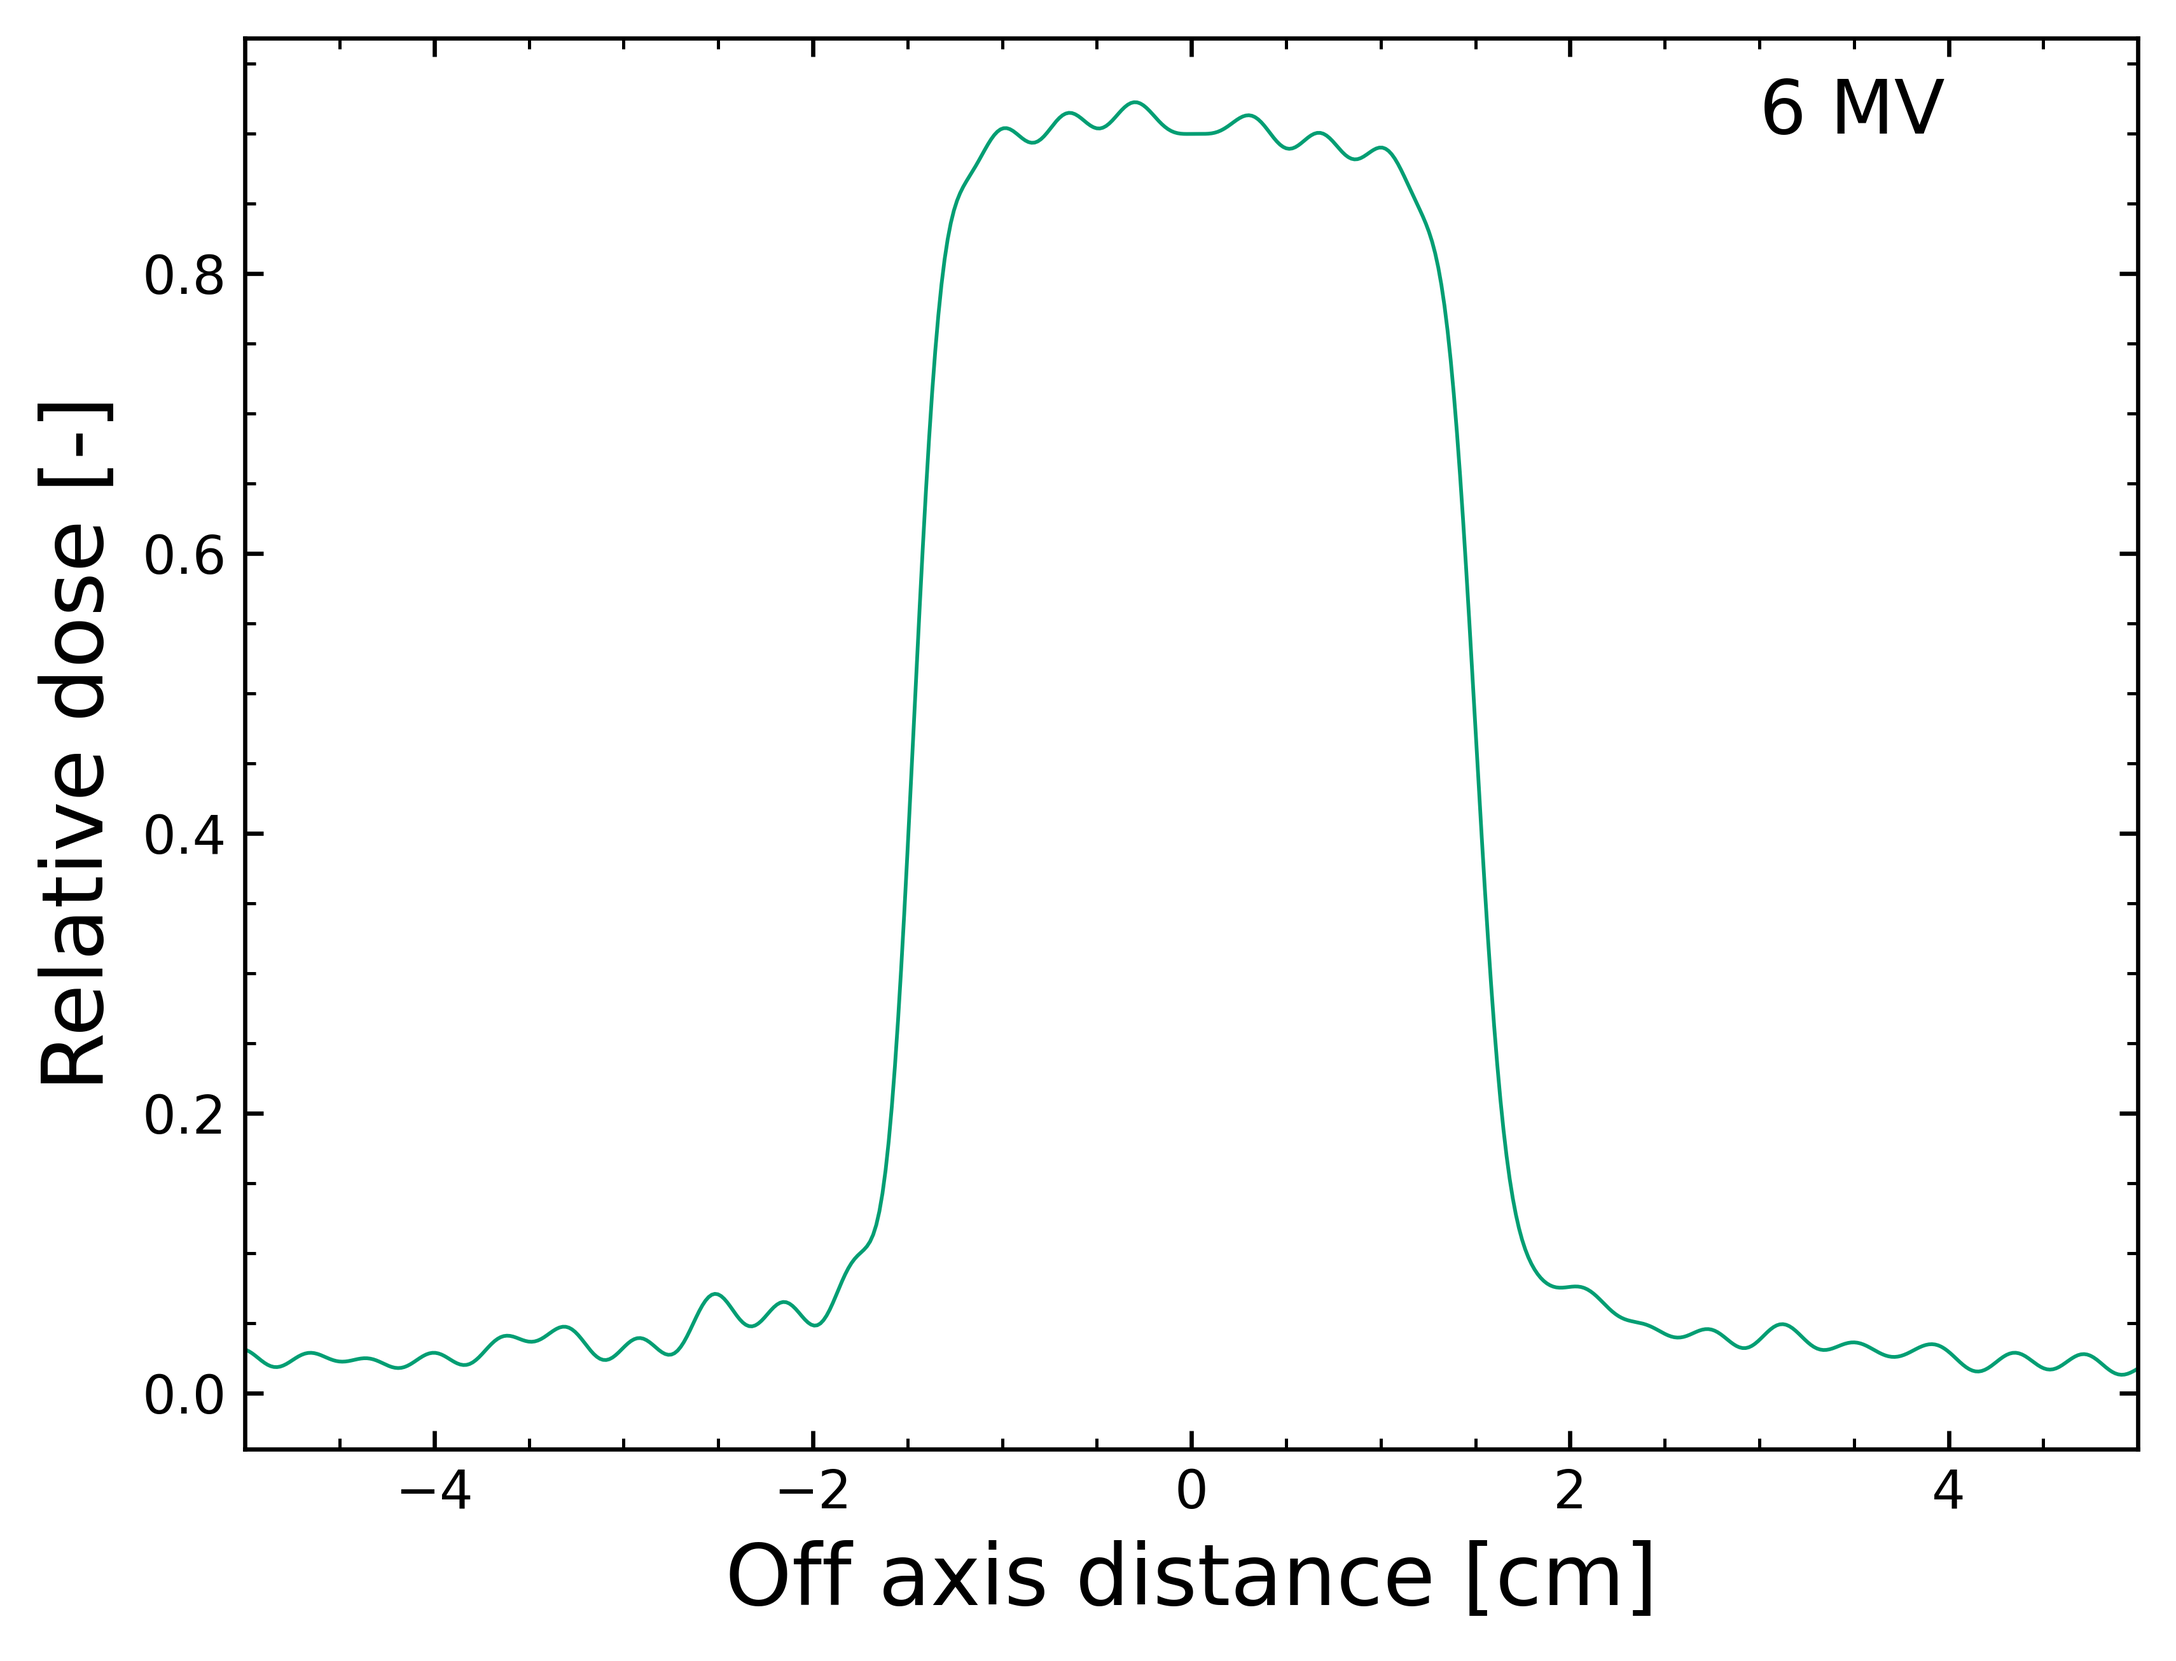
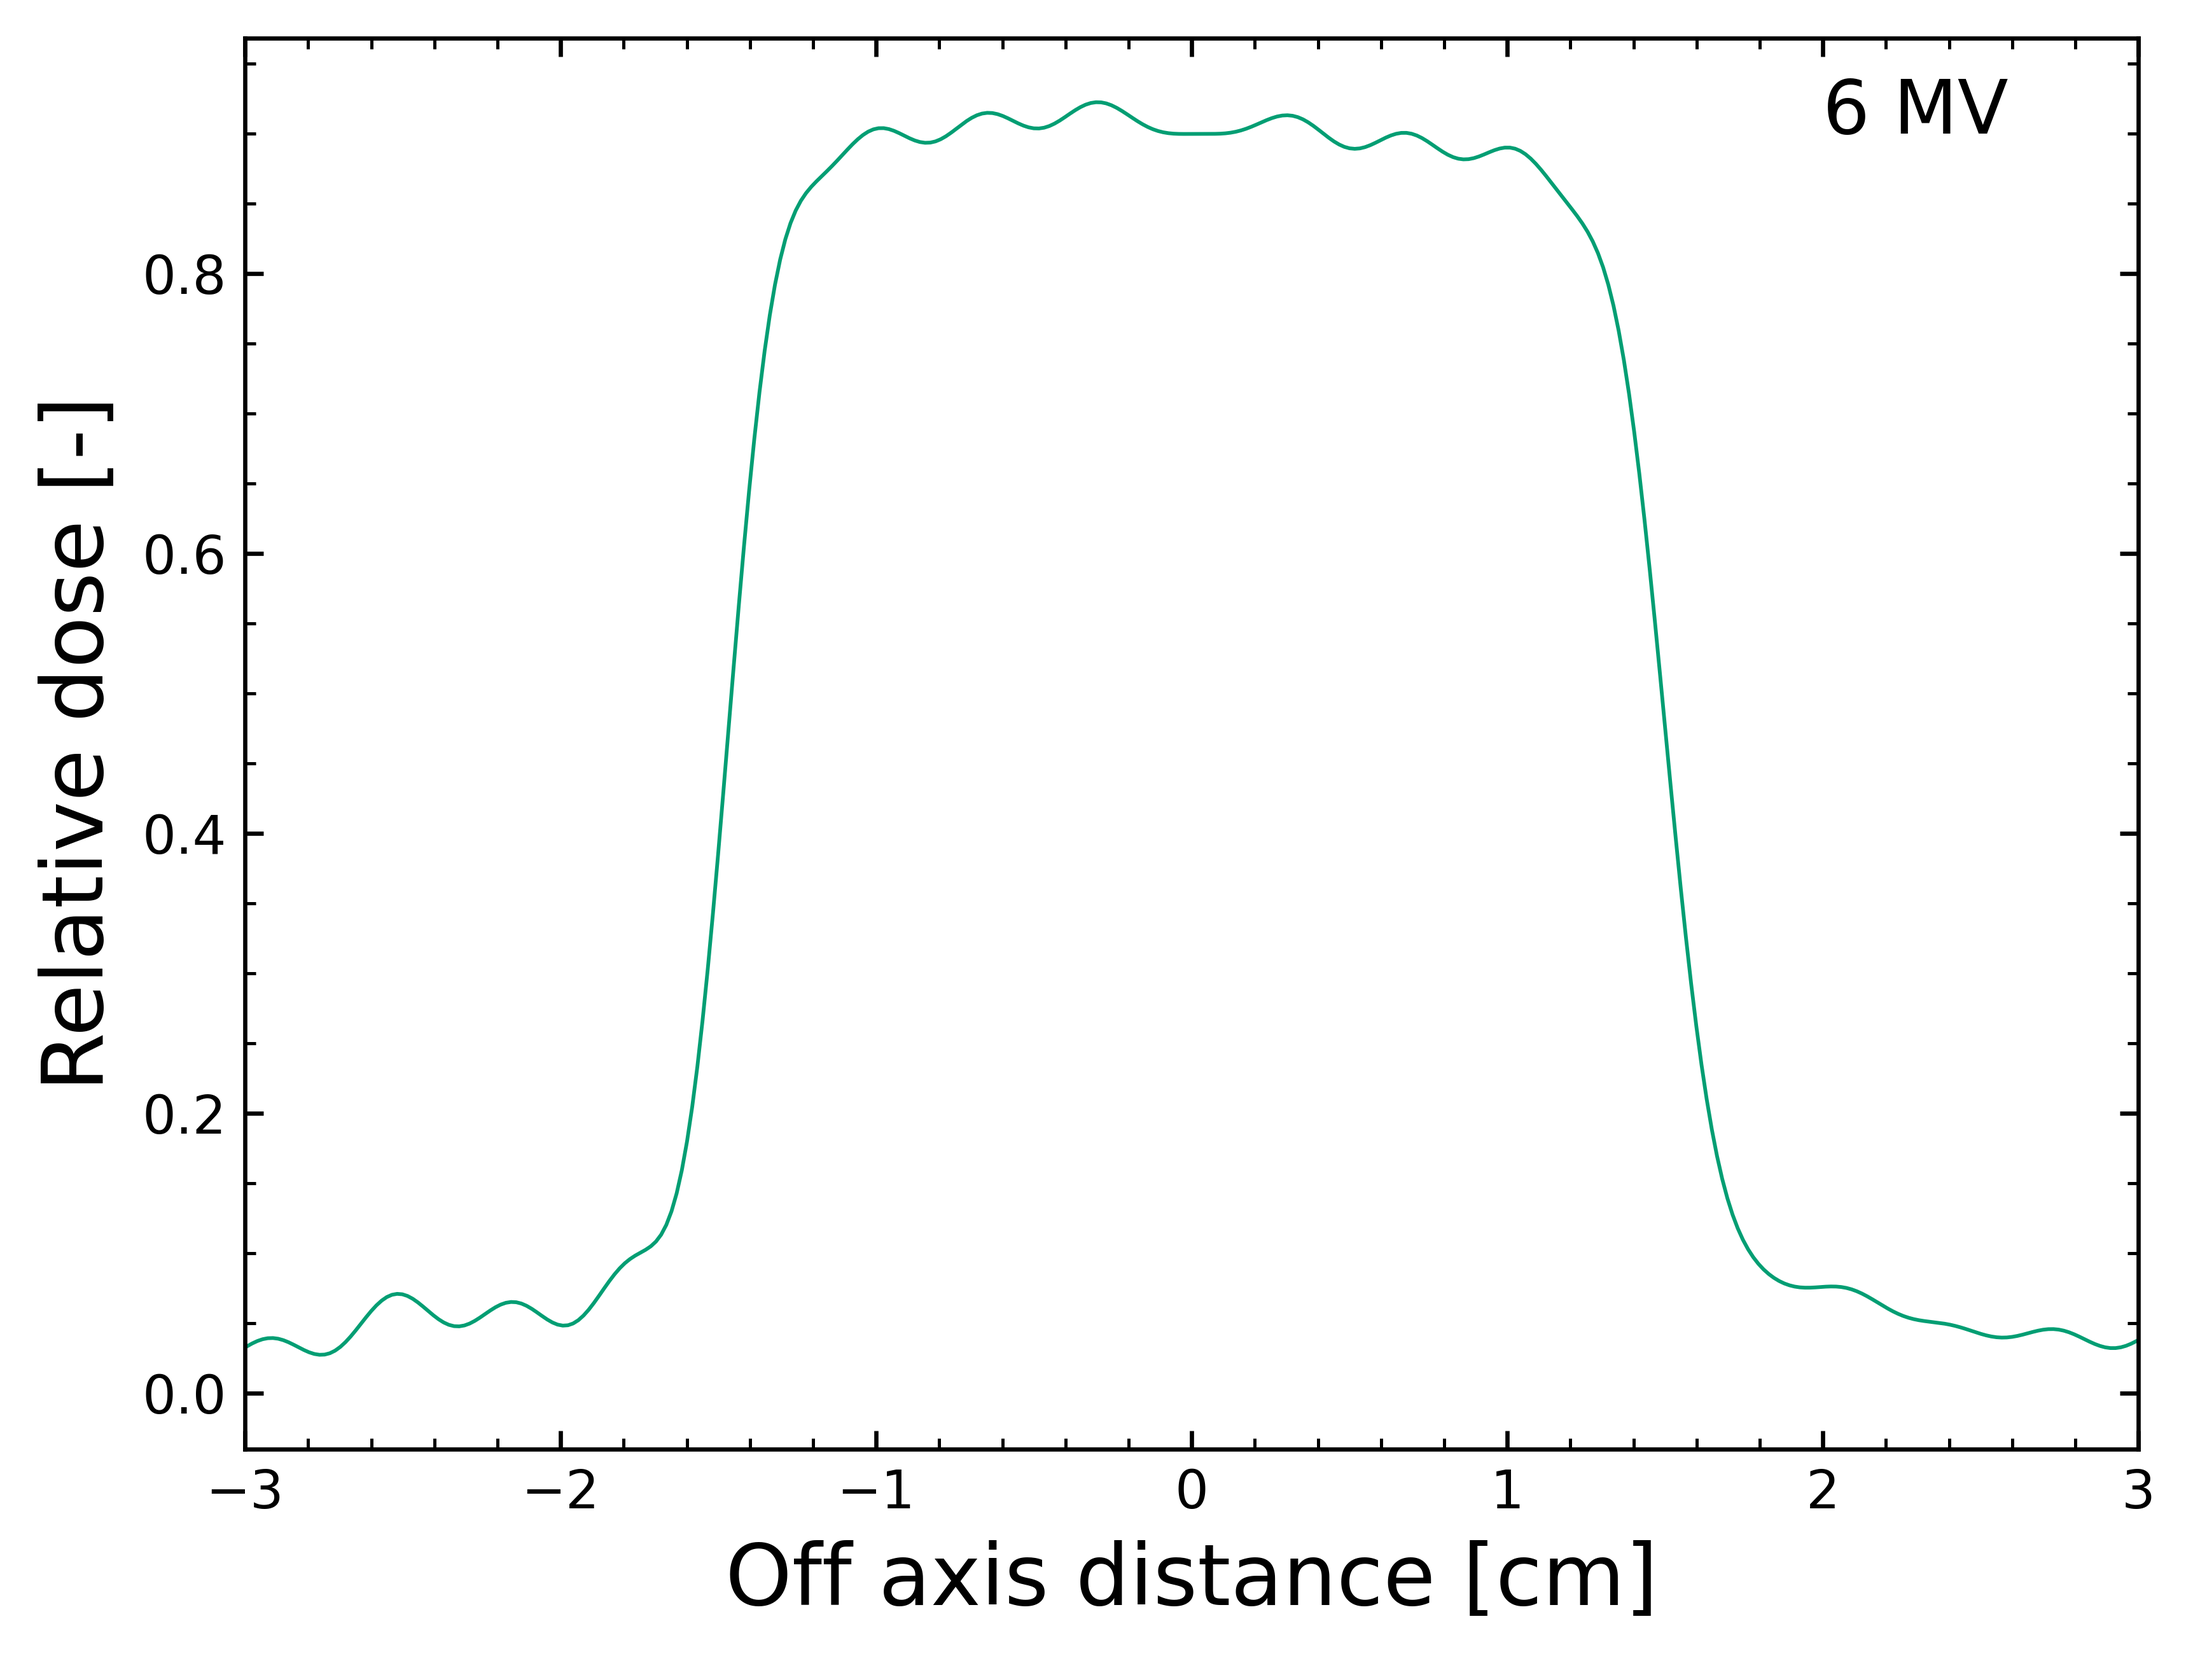
new with_ref

diff --git a/LINAC/test_ref.py b/LINAC/test_ref.py
@@ -18,7 +18,7 @@ class Analysis:
             energy (str): Image energy name.
         """
         # Initialize image paths for improved images and calibration images
-        self.improved_images = glob.glob(f"{path}/Improved_Data/{energy}/*")
+        self.improved_images = (f"{path}/Improved_Data/{energy}/unpol.png")
         calibration_images = glob.glob(f"{path}/Calibration/*")
 
         self.path = path
@@ -57,59 +57,21 @@ class Analysis:
         max_value_list =[]
         max_index_list = []
 
-        for improved_image in self.improved_images:
-            img = plt.imread(improved_image)
-            height = img.shape[0]
-            central_row = height // 2
+        img = plt.imread(self.improved_images)
+        height = img.shape[0]
+        central_row = height // 2
 
-            start_line = central_row - interval_size - y_offset
-            end_line = central_row + interval_size - y_offset
+        start_line = central_row - interval_size - y_offset
+        end_line = central_row + interval_size - y_offset
 
-            # Calculate the mean intensity along the interval
-            intensity = np.mean(img[start_line:end_line], axis=0)
-            intensity_list.append(list(intensity))
-            max_index = np.argmax(intensity)
-            max_value_list.append(intensity[max_index])
-            max_index_list.append(max_index)
+        # Calculate the mean intensity along the interval
+        intensity = np.mean(img[start_line:end_line], axis=0)
+        intensity_list.append(list(intensity))
+        max_index = np.argmax(intensity)
+        max_value_list.append(intensity[max_index])
+        max_index_list.append(max_index)
 
         return intensity_list, max_value_list, max_index_list, start_line, end_line
-
-    def pdd_grayvalues(self):
-        """Calculate intensity profiles along the vertical axis (percentage depth dose).
-
-        Returns:
-            tuple: Lists of intensity profiles, maximum values, and maximum indices.
-        """
-        intensity_list = []
-        max_value_list =[]
-        max_index_list = []
-
-        for improved_image in self.improved_images:
-            img = plt.imread(improved_image)
-
-            # Calculate the mean intensity along the vertical axis
-            intensity = np.mean(img, axis=1)
-            intensity_list.append(list(intensity))
-            max_index = np.argmax(intensity)
-            max_value_list.append(intensity[max_index])
-            max_index_list.append(max_index)
-
-        return intensity_list, max_value_list, max_index_list
-
-    def plot_interval(self):
-        """Plot intervals of interest on images.
-        """
-        directory = os.path.join(self.path, "Interval", self.energy)
-        os.makedirs(directory, exist_ok=True)
-
-        for count, image in enumerate(self.improved_images):
-            image_8bit = cv.imread(image)
-            # Highlight the interval on the image using green color
-            image_8bit[self.grayvalues()[3], :] = [0, 255, 0]
-            image_8bit[self.grayvalues()[4], :] = [0, 255, 0]
-
-            # Save the modified image with interval markers
-            cv.imwrite(os.path.join(directory, self.get_file_names()[count]), image_8bit)
 
     def curve_fft(self, x_data_graph):
         """Perform Fourier transform and return the reconstructed data after thresholding.
@@ -153,7 +115,7 @@ class Analysis:
         median_index = (left_point + right_point) // 2
         return median_index
 
-    def plot_profile(self, plot_interval=False):
+    def plot_profile(self):
         """Plot intensity profiles along the off-axis direction.
 
         Args:
@@ -168,9 +130,6 @@ class Analysis:
         for data in np.loadtxt(film_path):
             film_data.append(data / 100)
 
-        if plot_interval:
-                self.plot_interval()
-
         for index, intensity in enumerate(intensity_profiles):
             relative_intensity = intensity / self.profile_grayvalues()[1][index]
             reconstructed_relative_intensity = self.curve_fft(relative_intensity)
@@ -182,48 +141,27 @@ class Analysis:
             # Create and customize the plot
             fig, ax = plt.subplots()
             palette = sns.color_palette("colorblind")
-            ax.plot(off_ax_position_cm, reconstructed_relative_intensity, color=palette[2], linewidth="0.7")
-            #ax.plot(film_ax_position_cm, film_data, color=palette[0], linewidth="0.7")
+            ax.plot(off_ax_position_cm, reconstructed_relative_intensity, color=palette[2], linewidth="0.9", label="Camera measurement")
+            ax.plot(film_ax_position_cm, film_data, color=palette[4], linewidth="0.9", label="Film reference")
+            ax.legend()
             ax.minorticks_on()
             ax.tick_params(top=True, right=True, axis="both", which="both", direction='in')
             ax.set_ylabel("Relative dose [-]", fontsize=16)
             ax.set_xlabel("Off axis distance [cm]", fontsize=16)
-            ax.set_xlim(-3, 3)
+            ax.set_xlim(-2.5, 2.5)
 
             numbers = "".join(filter(str.isdigit, self.energy))
             text = "".join(filter(str.isalpha, self.energy))
-            ax.text(x=2, y=0.9, s="{0} {1}".format(numbers, text), fontsize=14)
+            ax.text(x=1.6, y=0.9, s="{0} {1}".format(numbers, text), fontsize=14)
 
             # Save the plot as an image
-            plt.savefig(os.path.join(directory, self.get_file_names()[index]), bbox_inches="tight", dpi=600)
+            plt.savefig(os.path.join(directory, "with_ref"), bbox_inches="tight", dpi=600)
             plt.close(fig)
 
-    def plot_pdd(self):
-        """Plot Percentage Depth Dose (PDD) profiles.
-        """
-        intensity_profiles = self.pdd_grayvalues()[0]
-        directory = os.path.join(self.path, "PDD", self.energy)
-        os.makedirs(directory, exist_ok=True)
-
-        for index, intensity in enumerate(intensity_profiles):
-            relative_intensity = intensity / self.pdd_grayvalues()[1][index]
-            reconstructed_data = self.curve_fft(relative_intensity)
-            position_pix = np.linspace(0, len(reconstructed_data), len(reconstructed_data))
-            position_cm = position_pix * self.pixel_converter[0] /10
-
-            # Create and customize the plot
-            fig, ax = plt.subplots()
-            palette = sns.color_palette("colorblind")
-            ax.plot(position_cm, reconstructed_data, color=palette[0], linewidth="0.7")
-            ax.minorticks_on()
-            ax.tick_params(top=True, right=True, axis="both", which="both", direction='in')
-            ax.set_ylabel("Percentage depth dose [-]", fontsize=16)
-            ax.set_xlabel("Depth [cm]", fontsize=16)
-
-            numbers = "".join(filter(str.isdigit, self.energy))
-            text = "".join(filter(str.isalpha, self.energy))
-            ax.text(x=20, y=0.9, s="{0} {1}".format(numbers, text), fontsize=14)
-
-            # Save the plot as an image
-            plt.savefig(os.path.join(directory, self.get_file_names()[index]), bbox_inches="tight", dpi=600)
-            plt.close(fig)
+CHECKERBOARD = (7, 10)
+DIAGONALE = 25
+date = "2023-07-10"
+energy = "6MV"
+path = f"Measurements/{date}"
+analyse = Analysis(CHECKERBOARD, DIAGONALE, path, energy)
+analyse.plot_profile()

diff --git a/LINAC/main.py b/LINAC/main.py
@@ -13,8 +13,8 @@ if __name__ == "__main__":
     # Définir la date pour extraire les images du dossier correspondant
     #date = input("Enter the date of your data acquision (YYYY-MM-DD):")
     #energy = input("Enter the energy level of your data acquision:")
-    date = "2023-07-24"
-    energy = "18MV"
+    date = "2023-07-10"
+    energy = "6MV"
     path = f"Measurements/{date}"
 
     calib = glob.glob(f"{path}/Calibration/*")
